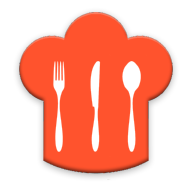
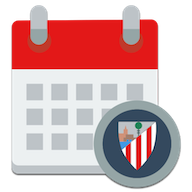
Change app to Athletic Calendar

diff --git a/android/index.html b/android/index.html
@@ -1,9 +1,9 @@
 <html ng-app="app" ng-controller="appCtrl">
 <meta http-equiv="Content-Type" content="text/html; charset=utf-8" />
 <meta name="viewport" content="width=device-width, initial-scale=1.0">
-<meta name="description" content="Gourmet App Android">
+<meta name="description" content="Athletic Calendar Android">
 <meta name="author" content="Javier González">
-<meta name="keywords" lang="en" content="Gourmet,Cheque,github,javier,ugarte">
+<meta name="keywords" lang="en" content="athletic,calendar,googlecalendar,javier,ugarte">
 
 <link rel="apple-touch-icon" sizes="57x57" href="images/favicon/apple-icon-57x57.png">
 <link rel="apple-touch-icon" sizes="60x60" href="images/favicon/apple-icon-60x60.png">
@@ -24,7 +24,7 @@
 <meta name="theme-color" content="#FF5722">
 
 <head>
-	<title>Gourmet - Android</title>
+	<title>Athletic Calendar - Android</title>
 	<link href='https://fonts.googleapis.com/css?family=Roboto:400,700,300,500' rel='stylesheet' type='text/css'>
 	<link href="styles.css" rel="stylesheet" type="text/css" />
 	<script src="https://ajax.googleapis.com/ajax/libs/angularjs/1.5.8/angular.min.js"></script>
@@ -32,7 +32,7 @@
 </head>
 <body>
 	<div id="header">
-		<div class="logo-container"><img class="logo" src="images/login_image.png"/></div>
+		<div class="logo-container">Athletic Calendar</div>
 	</div>
 
 	<div id="icon">
@@ -41,13 +41,13 @@
 
 	<div id="content">
 		<div id="download-button">
-			<a href="{{gourmet.downloadUrl}}"><span class="download-title">{{gourmet.tagName}}</span></a>
-			<span class="available"></br>{{gourmet.available}}</span>
+			<a href="{{app.downloadUrl}}"><span class="download-title">{{app.tagName}}</span></a>
+			<span class="available"></br>{{app.available}}</span>
 		</div>
 
 		<div id="changelog">
 			<span class="changelog-title">Changelog</span>
-			<div class="changelog-detail" ng-repeat="release in gourmet.releases">
+			<div class="changelog-detail" ng-repeat="release in app.releases">
 				<span class="changelog-version" >{{release.tagName}}</span>
 				<ul>
 					<li ng-repeat="change in release.changes">
@@ -59,8 +59,8 @@
 	</div>
 
 	<div id="footer">
-		<p>{{gourmet.footerText}}<span class="strong">{{gourmet.footerGitHub}}</span></p>
-		<a href="{{gourmet.projectUrl}}" target="_blank">
+		<p>{{app.footerText}}<span class="strong">{{app.footerGitHub}}</span></p>
+		<a href="{{app.projectUrl}}" target="_blank">
 			<img src="images/github_black.png" />
 		</a>
 	</div>

diff --git a/android/app.js b/android/app.js
@@ -1,6 +1,6 @@
 var app = angular.module("app", []);
 
-var $URL = "https://api.github.com/repos/GourmetApp/GourmetApp-android/releases";
+var $URL = "https://api.github.com/repos/AthleticCalendar/AthleticCalendar-android/releases";
 
 
 app.controller("appCtrl", function($scope, $http) {
@@ -16,24 +16,24 @@ app.controller("appCtrl", function($scope, $http) {
         release.changes = release.changes.split('- ');
         release.changes.shift();
         release.downloadUrl = "";
-        if (json[i].assets != null && json[i].assets[0].browser_download_url != "undefined") {
+        if (json[i].assets != null && json[i].assets[0] != null && json[i].assets[0].browser_download_url != "undefined") {
           release.downloadUrl = json[i].assets[0].browser_download_url;
         }
         releases.push(release);
       }
 
-      var gourmet = {
-        projectName: 'Gourmet - Android',
+      var app = {
+        projectName: 'Athletic Calendar - Android',
         tagName: 'Download ' + releases[0].tagName,
         available: '(Android 4.0.4 or above)',
-        projectUrl: 'https://github.com/GourmetApp/GourmetApp-Android',
+        projectUrl: 'https://github.com/AthleticCalendar/AthleticCalendar-Android',
         footerText: 'Developed by Javier González. You can see the application code and contribute on ',
         footerGitHub: 'GitHub.',
         downloadUrl: releases[0].downloadUrl,
         releases: releases
       };
 
-      $scope.gourmet = gourmet;
+      $scope.app = app;
     });
  
 });

diff --git a/android/styles.css b/android/styles.css
@@ -18,7 +18,7 @@ text-decoration: none;
 
 body {
 	font-family: 'Roboto', sans-serif;
-	background-color: #FF5722;
+	background-color: #E31818;
 	color: white;
 }
 
